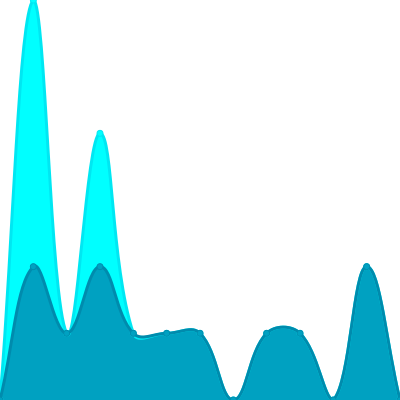
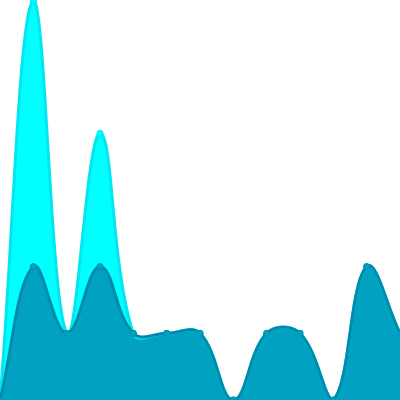
Update views

Changed region(s): [[0.9, 0.66, 1.0, 0.99], [0.87, 0.75, 0.9, 0.84]]

diff --git a/readme/278571140/year.md b/readme/278571140/year.md
@@ -23,10 +23,10 @@
 			<code>2023/1/1</code>
 		</td>
 		<td>
-			<code>0</code>
+			<code>1</code>
 		</td>
 		<td>
-			<code>0</code>
+			<code>1</code>
 		</td>
 	</tr>
 	<tr>
@@ -164,7 +164,7 @@
 </table>
 
 </details>
-<small><i>Last updated on 2023/1/27 12:14 AM UTC</i></small>
+<small><i>Last updated on 2023/1/27 6:03 AM UTC</i></small>
 
 ## ✂Copy and 📋 Paste
 ### SVG Badge

diff --git a/README.md b/README.md
@@ -37,7 +37,7 @@ The project created and maintained by [gayanvoice](https://github.com/gayanvoice
 	</tr>
 </table>
 
-<small><i>Last updated on 2023/1/27 12:14 AM UTC</i></small>
+<small><i>Last updated on 2023/1/27 6:04 AM UTC</i></small>
 
 ## ✂Copy and 📋 Paste
 ### Total Views Badge
